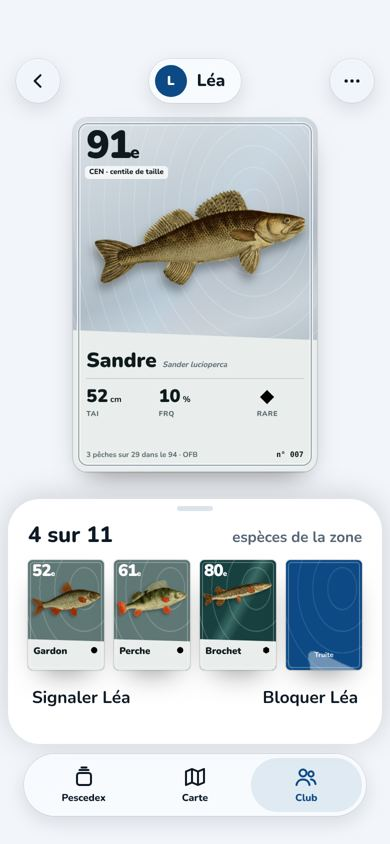
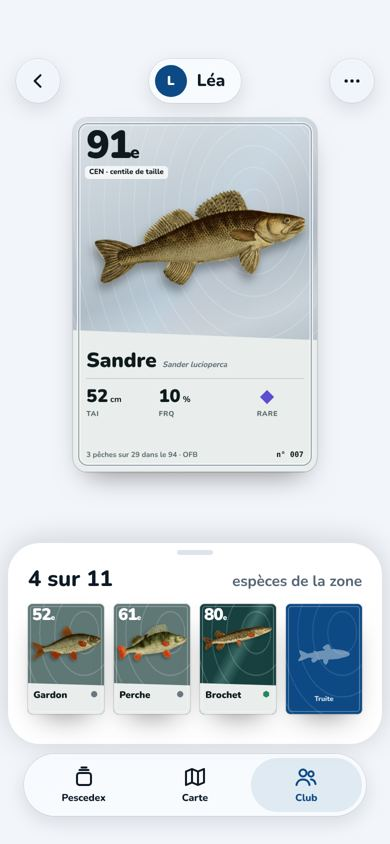
Design : mes clubs (P29 B), photo de galerie (P30 B), Signaler et Bloquer dans le menu (P32 A)
Claude-Session: https://claude.ai/code/session_01SHD9N8ay5HXbeEQZKxhWVP

Changed region(s): [[0.0, 0.6161, 0.9846, 0.8626], [0.6769, 0.4621, 0.7077, 0.4929]]

diff --git a/docs/design/maquettes/P29-club-B.dc.html b/docs/design/maquettes/P29-club-B.dc.html
@@ -18,15 +18,7 @@ body{margin:0}
 </style>
 </helmet>
 <div class="ecran"><div class="haut"><h1 class="t-grand">Club</h1></div>
-<div class="zone" style="margin-top:8px">
-<div class="groupe"><div class="ligne" style="min-height:64px"><div class="tuile-poisson" style="width:44px;height:44px;border-radius:22px"><img class="poisson" src="/_blob/325cfac7b539aef705c1b3f944fa8bcf" alt="Brochet" style="width:36px;height:22px"></div><div class="texte"><div class="t-sous">Les brochets de la Marne</div><div class="t-legende">4 membres</div></div><svg class="chevron" viewBox="0 0 8 14" aria-hidden="true"><path fill="none" stroke="currentColor" stroke-width="2" stroke-linecap="round" stroke-linejoin="round" d="m1.5 1.5 5 5.5-5 5.5"/></svg></div></div>
-<div class="groupe"><div class="ligne"><span class="g7-av" style="width:36px;height:36px;font-size:15px;background:#0D4A85;box-shadow:none">L</span><div class="texte t-corps">Léa</div><span class="valeur">4 cartes</span><svg class="chevron" viewBox="0 0 8 14" aria-hidden="true"><path fill="none" stroke="currentColor" stroke-width="2" stroke-linecap="round" stroke-linejoin="round" d="m1.5 1.5 5 5.5-5 5.5"/></svg></div><div class="ligne"><span class="g7-av" style="width:36px;height:36px;font-size:15px;background:#13643B;box-shadow:none">M</span><div class="texte t-corps">Malo</div><span class="valeur">8 cartes</span><svg class="chevron" viewBox="0 0 8 14" aria-hidden="true"><path fill="none" stroke="currentColor" stroke-width="2" stroke-linecap="round" stroke-linejoin="round" d="m1.5 1.5 5 5.5-5 5.5"/></svg></div><div class="ligne"><span class="g7-av" style="width:36px;height:36px;font-size:15px;background:#082A4C;box-shadow:none">I</span><div class="texte t-corps">Inès</div><span class="valeur">3 cartes</span><svg class="chevron" viewBox="0 0 8 14" aria-hidden="true"><path fill="none" stroke="currentColor" stroke-width="2" stroke-linecap="round" stroke-linejoin="round" d="m1.5 1.5 5 5.5-5 5.5"/></svg></div><div class="ligne" style="color:var(--marine)"><svg style="width:22px;height:22px;flex:none;color:var(--marine)" viewBox="0 0 24 24" aria-hidden="true"><path fill="none" stroke="currentColor" stroke-width="2.4" stroke-linecap="round" d="M12 5v14M5 12h14"/></svg><span class="t-corps">Inviter un ami</span></div></div>
-<div class="entete-groupe">Dernières cartes</div>
-<div class="groupe"><div class="ligne avec-image"><div class="vignette tuile-poisson" style="border-radius:8px;width:56px;height:36px"><img class="poisson" src="/_blob/64752134d1301c8ae5245b9230566c2d" alt=""></div><div class="texte"><div class="t-corps">Léa</div><div class="t-legende">Sandre, lundi</div></div><span class="valeur">52 cm</span><svg class="chevron" viewBox="0 0 8 14" aria-hidden="true"><path fill="none" stroke="currentColor" stroke-width="2" stroke-linecap="round" stroke-linejoin="round" d="m1.5 1.5 5 5.5-5 5.5"/></svg></div><div class="ligne avec-image"><div class="vignette tuile-poisson" style="border-radius:8px;width:56px;height:36px"><img class="poisson" src="/_blob/4799d66fb5fc82ab53e0051d38867b2d" alt=""></div><div class="texte"><div class="t-corps">Inès</div><div class="t-legende">Gardon, dim.</div></div><span class="valeur">27 cm</span><svg class="chevron" viewBox="0 0 8 14" aria-hidden="true"><path fill="none" stroke="currentColor" stroke-width="2" stroke-linecap="round" stroke-linejoin="round" d="m1.5 1.5 5 5.5-5 5.5"/></svg></div></div>
-<div class="entete-groupe">Record du club</div>
-<div class="groupe"><div class="ligne avec-image"><div class="vignette tuile-poisson" style="border-radius:8px;width:56px;height:36px"><img class="poisson" src="/_blob/325cfac7b539aef705c1b3f944fa8bcf" alt=""></div><div class="texte"><div class="t-corps">Plus gros brochet</div><div class="t-legende">Malo</div></div><span class="valeur">74 cm</span><svg class="chevron" viewBox="0 0 8 14" aria-hidden="true"><path fill="none" stroke="currentColor" stroke-width="2" stroke-linecap="round" stroke-linejoin="round" d="m1.5 1.5 5 5.5-5 5.5"/></svg></div></div>
-<div class="groupe" style="margin-top:22px"><div class="ligne"><span class="texte t-corps">Réglages du club</span><svg class="chevron" viewBox="0 0 8 14" aria-hidden="true"><path fill="none" stroke="currentColor" stroke-width="2" stroke-linecap="round" stroke-linejoin="round" d="m1.5 1.5 5 5.5-5 5.5"/></svg></div></div>
-</div><nav class="onglets verre" aria-label="Volets"><a class="onglet" href="#"><svg viewBox="0 0 24 24" fill="none" stroke="currentColor" stroke-width="2" stroke-linejoin="round" aria-hidden="true"><rect x="5" y="8" width="14" height="12" rx="2.5"/><path d="M7.5 5h9M9.5 2.5h5" stroke-linecap="round"/></svg><span>Pescedex</span></a><a class="onglet" href="#"><svg viewBox="0 0 24 24" fill="none" stroke="currentColor" stroke-width="2" stroke-linejoin="round" aria-hidden="true"><path d="M3 6.5 9 4l6 2.5L21 4v13.5L15 20l-6-2.5L3 20Z"/><path d="M9 4v13.5M15 6.5V20"/></svg><span>Carte</span></a><a class="onglet on" href="#"><svg viewBox="0 0 24 24" fill="none" stroke="currentColor" stroke-width="2" stroke-linecap="round" aria-hidden="true"><circle cx="9" cy="8" r="3.5"/><path d="M2.5 20c.6-3.6 3.3-5.5 6.5-5.5s5.9 1.9 6.5 5.5"/><circle cx="17" cy="9" r="2.6"/><path d="M17 14.4c2.4.2 4 1.8 4.5 4.6"/></svg><span>Club</span></a></nav></div>
+<div class="zone" style="margin-top:0"><div class="entete-groupe" style="padding-top:4px">Mes clubs</div><div class="groupe"><div class="ligne" style="min-height:52px"><div class="tuile-poisson" style="width:36px;height:36px;border-radius:18px"><img class="poisson" src="/_blob/325cfac7b539aef705c1b3f944fa8bcf" alt="Brochet" style="width:30px;height:18px"></div><div class="texte"><div class="t-corps">Les brochets de la Marne</div><div class="t-legende">4 membres</div></div><svg style="width:22px;height:22px;flex:none;color:var(--marine)" viewBox="0 0 24 24" aria-hidden="true"><path fill="currentColor" d="M12 2a10 10 0 1 0 0 20 10 10 0 0 0 0-20Zm-1.3 14.2-4-4 1.4-1.4 2.6 2.6 5.6-5.6 1.4 1.4Z"/></svg></div><div class="ligne" style="min-height:52px"><div class="tuile-poisson" style="width:36px;height:36px;border-radius:18px"><img class="poisson" src="/_blob/aeffa4c02dbb347bade7eabb3ce5d690" alt="Carpe" style="width:30px;height:18px"></div><div class="texte"><div class="t-corps">Carpistes du 94</div><div class="t-legende">7 membres</div></div><svg class="chevron" viewBox="0 0 8 14" aria-hidden="true"><path fill="none" stroke="currentColor" stroke-width="2" stroke-linecap="round" stroke-linejoin="round" d="m1.5 1.5 5 5.5-5 5.5"/></svg></div><div class="ligne" style="min-height:52px"><div class="tuile-poisson" style="width:36px;height:36px;border-radius:18px"><img class="poisson" src="/_blob/4799d66fb5fc82ab53e0051d38867b2d" alt="Gardon" style="width:30px;height:18px"></div><div class="texte"><div class="t-corps">Famille</div><div class="t-legende">3 membres</div></div><svg class="chevron" viewBox="0 0 8 14" aria-hidden="true"><path fill="none" stroke="currentColor" stroke-width="2" stroke-linecap="round" stroke-linejoin="round" d="m1.5 1.5 5 5.5-5 5.5"/></svg></div><div class="ligne" style="min-height:0;padding:0 10px"><button class="t-detail" style="flex:1.5;white-space:nowrap;display:flex;align-items:center;justify-content:center;gap:4px;height:48px;font-size:14px;color:var(--marine)"><svg style="width:20px;height:20px;flex:none" viewBox="0 0 24 24" aria-hidden="true"><path fill="none" stroke="currentColor" stroke-width="2.2" stroke-linecap="round" stroke-linejoin="round" d="M10 14a4 4 0 0 0 5.7 0l3-3a4 4 0 0 0-5.7-5.7l-1 1M14 10a4 4 0 0 0-5.7 0l-3 3A4 4 0 0 0 11 18.7l1-1"/></svg>Rejoindre avec un lien</button><span style="width:1px;height:24px;background:var(--filet)"></span><button class="t-detail" style="flex:1;display:flex;align-items:center;justify-content:center;gap:4px;height:48px;font-size:14px;color:var(--marine)"><svg style="width:20px;height:20px;flex:none" viewBox="0 0 24 24" aria-hidden="true"><path fill="none" stroke="currentColor" stroke-width="2.4" stroke-linecap="round" d="M12 5v14M5 12h14"/></svg>Créer un club</button></div></div><div class="entete-groupe">Les brochets de la Marne</div><div class="groupe"><div class="ligne" style="padding:0;min-height:0"><div style="flex:1;display:flex;flex-direction:column;align-items:center;gap:2px;padding:10px 0"><span class="g7-av" style="width:36px;height:36px;font-size:15px;background:#0D4A85;box-shadow:none">L</span><span class="t-detail">Léa</span><span class="t-legende" style="color:var(--encre-douce)">4 cartes</span></div><div style="flex:1;display:flex;flex-direction:column;align-items:center;gap:2px;padding:10px 0"><span class="g7-av" style="width:36px;height:36px;font-size:15px;background:#13643B;box-shadow:none">M</span><span class="t-detail">Malo</span><span class="t-legende" style="color:var(--encre-douce)">8 cartes</span></div><div style="flex:1;display:flex;flex-direction:column;align-items:center;gap:2px;padding:10px 0"><span class="g7-av" style="width:36px;height:36px;font-size:15px;background:#082A4C;box-shadow:none">I</span><span class="t-detail">Inès</span><span class="t-legende" style="color:var(--encre-douce)">3 cartes</span></div><button aria-label="Inviter un ami" style="flex:1;display:flex;flex-direction:column;align-items:center;gap:2px;padding:10px 0;color:var(--marine)"><span style="width:36px;height:36px;display:grid;place-items:center"><svg style="width:26px;height:26px" viewBox="0 0 24 24" aria-hidden="true"><path fill="none" stroke="currentColor" stroke-width="2.4" stroke-linecap="round" d="M12 5v14M5 12h14"/></svg></span><span class="t-detail">Inviter</span><span class="t-legende">&nbsp;</span></button></div></div><div class="entete-groupe">Dernières cartes</div><div class="groupe"><div class="ligne avec-image" style="min-height:48px"><div class="vignette tuile-poisson" style="border-radius:8px;width:48px;height:32px"><img class="poisson" src="/_blob/64752134d1301c8ae5245b9230566c2d" alt=""></div><div class="texte"><div class="t-corps">Léa</div><div class="t-legende">Sandre, lundi</div></div><span class="valeur">52 cm</span><svg class="chevron" viewBox="0 0 8 14" aria-hidden="true"><path fill="none" stroke="currentColor" stroke-width="2" stroke-linecap="round" stroke-linejoin="round" d="m1.5 1.5 5 5.5-5 5.5"/></svg></div><div class="ligne avec-image" style="min-height:48px"><div class="vignette tuile-poisson" style="border-radius:8px;width:48px;height:32px"><img class="poisson" src="/_blob/4799d66fb5fc82ab53e0051d38867b2d" alt=""></div><div class="texte"><div class="t-corps">Inès</div><div class="t-legende">Gardon, dim.</div></div><span class="valeur">27 cm</span><svg class="chevron" viewBox="0 0 8 14" aria-hidden="true"><path fill="none" stroke="currentColor" stroke-width="2" stroke-linecap="round" stroke-linejoin="round" d="m1.5 1.5 5 5.5-5 5.5"/></svg></div></div><div class="entete-groupe">Record du club</div><div class="groupe"><div class="ligne avec-image" style="min-height:48px"><div class="vignette tuile-poisson" style="border-radius:8px;width:48px;height:32px"><img class="poisson" src="/_blob/325cfac7b539aef705c1b3f944fa8bcf" alt=""></div><div class="texte"><div class="t-corps">Plus gros brochet</div><div class="t-legende">Malo</div></div><span class="valeur">74 cm</span><svg class="chevron" viewBox="0 0 8 14" aria-hidden="true"><path fill="none" stroke="currentColor" stroke-width="2" stroke-linecap="round" stroke-linejoin="round" d="m1.5 1.5 5 5.5-5 5.5"/></svg></div></div></div><nav class="onglets verre" aria-label="Volets"><a class="onglet" href="#"><svg viewBox="0 0 24 24" fill="none" stroke="currentColor" stroke-width="2" stroke-linejoin="round" aria-hidden="true"><rect x="5" y="8" width="14" height="12" rx="2.5"/><path d="M7.5 5h9M9.5 2.5h5" stroke-linecap="round"/></svg><span>Pescedex</span></a><a class="onglet" href="#"><svg viewBox="0 0 24 24" fill="none" stroke="currentColor" stroke-width="2" stroke-linejoin="round" aria-hidden="true"><path d="M3 6.5 9 4l6 2.5L21 4v13.5L15 20l-6-2.5L3 20Z"/><path d="M9 4v13.5M15 6.5V20"/></svg><span>Carte</span></a><a class="onglet on" href="#"><svg viewBox="0 0 24 24" fill="none" stroke="currentColor" stroke-width="2" stroke-linecap="round" aria-hidden="true"><circle cx="9" cy="8" r="3.5"/><path d="M2.5 20c.6-3.6 3.3-5.5 6.5-5.5s5.9 1.9 6.5 5.5"/><circle cx="17" cy="9" r="2.6"/><path d="M17 14.4c2.4.2 4 1.8 4.5 4.6"/></svg><span>Club</span></a></nav></div>
 </x-dc>
 <script type="text/x-dc" data-dc-script data-props='{"$preview":{"width":390,"height":844}}'>
 class Component extends DCLogic {

diff --git a/docs/design/maquettes/P32-ami-A.dc.html b/docs/design/maquettes/P32-ami-A.dc.html
@@ -25,7 +25,7 @@ body{margin:0}
 <div style="position:absolute;left:0;right:0;top:118px;display:flex;justify-content:center"><div class="fc r" style="width:244px;"><div class="win"></div><div class="fish"><img src="/_blob/64752134d1301c8ae5245b9230566c2d" alt="Sandre"></div><div class="cen">91<i>e</i></div><div class="cenl">CEN · centile de taille</div><div class="pl"><div class="nm"><b>Sandre</b><em>Sander lucioperca</em></div><svg class="rkm r" viewBox="0 0 16 16" aria-hidden="true"><path d="M8 1 15 8 8 15 1 8Z"/></svg><div class="st"><div><b>52<small> cm</small></b><span>TAI</span></div><div><b>10<small> %</small></b><span>FRQ</span></div><div class="rk r"><svg viewBox="0 0 16 16" aria-hidden="true"><path d="M8 1 15 8 8 15 1 8Z"/></svg><span>RARE</span></div></div><div class="fo"><span>3 pêches sur 29 dans le 94 · OFB</span><u>n° 007</u></div></div><i class="in"></i></div></div>
 <div class="feuille au-dessus"><div class="poignee"></div>
 <div style="display:flex;justify-content:space-between;align-items:baseline"><h2 class="t-titre">4 sur 11</h2><span class="t-detail">espèces de la zone</span></div>
-<div style="display:flex;justify-content:space-between;margin:12px 0 6px"><div class="fc c mini" style="width:76px;"><div class="win"></div><div class="fish"><img src="/_blob/4799d66fb5fc82ab53e0051d38867b2d" alt="Gardon"></div><div class="cen">52<i>e</i></div><div class="cenl">CEN · centile de taille</div><div class="pl"><div class="nm"><b>Gardon</b><em>Rutilus rutilus</em></div><svg class="rkm c" viewBox="0 0 16 16" aria-hidden="true"><circle cx="8" cy="8" r="6"/></svg><div class="st"><div><b>24<small> cm</small></b><span>TAI</span></div><div><b>83<small> %</small></b><span>FRQ</span></div><div class="rk c"><svg viewBox="0 0 16 16" aria-hidden="true"><circle cx="8" cy="8" r="6"/></svg><span>COMMUN</span></div></div><div class="fo"><span>24 pêches sur 29 dans le 94 · OFB</span><u>n° 003</u></div></div><i class="in"></i></div><div class="fc c mini" style="width:76px;"><div class="win"></div><div class="fish"><img src="/_blob/0af5e5e6f274e011d4317ff12600a103" alt="Perche"></div><div class="cen">61<i>e</i></div><div class="cenl">CEN · centile de taille</div><div class="pl"><div class="nm"><b>Perche</b><em>Perca fluviatilis</em></div><svg class="rkm c" viewBox="0 0 16 16" aria-hidden="true"><circle cx="8" cy="8" r="6"/></svg><div class="st"><div><b>31<small> cm</small></b><span>TAI</span></div><div><b>55<small> %</small></b><span>FRQ</span></div><div class="rk c"><svg viewBox="0 0 16 16" aria-hidden="true"><circle cx="8" cy="8" r="6"/></svg><span>COMMUN</span></div></div><div class="fo"><span>16 pêches sur 29 dans le 94 · OFB</span><u>n° 005</u></div></div><i class="in"></i></div><div class="fc pc mini" style="width:76px;"><div class="win"></div><div class="fish"><img src="/_blob/325cfac7b539aef705c1b3f944fa8bcf" alt="Brochet"></div><div class="cen">80<i>e</i></div><div class="cenl">CEN · centile de taille</div><div class="pl"><div class="nm"><b>Brochet</b><em>Esox lucius</em></div><svg class="rkm pc" viewBox="0 0 16 16" aria-hidden="true"><path d="M8 1.5 13.6 4.75v6.5L8 14.5 2.4 11.25v-6.5Z"/></svg><div class="st"><div><b>61<small> cm</small></b><span>TAI</span></div><div><b>34<small> %</small></b><span>FRQ</span></div><div class="rk pc"><svg viewBox="0 0 16 16" aria-hidden="true"><path d="M8 1.5 13.6 4.75v6.5L8 14.5 2.4 11.25v-6.5Z"/></svg><span>PEU COMMUN</span></div></div><div class="fo"><span>10 pêches sur 29 dans le 94 · OFB</span><u>n° 009</u></div></div><i class="in"></i></div><div class="fc dos" style="width:76px"><div class="win"></div><img class="sil" src="/_blob/b1e4b71a29726b13c2d34e2adfcfef68" alt=""><div class="nmdos">Truite</div><i class="in"></i></div></div><div style="display:flex;justify-content:space-between;padding:0 4px"><button class="t-legende" style="height:44px">Signaler Léa</button><button class="t-legende" style="height:44px">Bloquer Léa</button></div></div><nav class="onglets verre" aria-label="Volets"><a class="onglet" href="#"><svg viewBox="0 0 24 24" fill="none" stroke="currentColor" stroke-width="2" stroke-linejoin="round" aria-hidden="true"><rect x="5" y="8" width="14" height="12" rx="2.5"/><path d="M7.5 5h9M9.5 2.5h5" stroke-linecap="round"/></svg><span>Pescedex</span></a><a class="onglet" href="#"><svg viewBox="0 0 24 24" fill="none" stroke="currentColor" stroke-width="2" stroke-linejoin="round" aria-hidden="true"><path d="M3 6.5 9 4l6 2.5L21 4v13.5L15 20l-6-2.5L3 20Z"/><path d="M9 4v13.5M15 6.5V20"/></svg><span>Carte</span></a><a class="onglet on" href="#"><svg viewBox="0 0 24 24" fill="none" stroke="currentColor" stroke-width="2" stroke-linecap="round" aria-hidden="true"><circle cx="9" cy="8" r="3.5"/><path d="M2.5 20c.6-3.6 3.3-5.5 6.5-5.5s5.9 1.9 6.5 5.5"/><circle cx="17" cy="9" r="2.6"/><path d="M17 14.4c2.4.2 4 1.8 4.5 4.6"/></svg><span>Club</span></a></nav></div>
+<div style="display:flex;justify-content:space-between;margin:12px 0 6px"><div class="fc c mini" style="width:76px;"><div class="win"></div><div class="fish"><img src="/_blob/4799d66fb5fc82ab53e0051d38867b2d" alt="Gardon"></div><div class="cen">52<i>e</i></div><div class="cenl">CEN · centile de taille</div><div class="pl"><div class="nm"><b>Gardon</b><em>Rutilus rutilus</em></div><svg class="rkm c" viewBox="0 0 16 16" aria-hidden="true"><circle cx="8" cy="8" r="6"/></svg><div class="st"><div><b>24<small> cm</small></b><span>TAI</span></div><div><b>83<small> %</small></b><span>FRQ</span></div><div class="rk c"><svg viewBox="0 0 16 16" aria-hidden="true"><circle cx="8" cy="8" r="6"/></svg><span>COMMUN</span></div></div><div class="fo"><span>24 pêches sur 29 dans le 94 · OFB</span><u>n° 003</u></div></div><i class="in"></i></div><div class="fc c mini" style="width:76px;"><div class="win"></div><div class="fish"><img src="/_blob/0af5e5e6f274e011d4317ff12600a103" alt="Perche"></div><div class="cen">61<i>e</i></div><div class="cenl">CEN · centile de taille</div><div class="pl"><div class="nm"><b>Perche</b><em>Perca fluviatilis</em></div><svg class="rkm c" viewBox="0 0 16 16" aria-hidden="true"><circle cx="8" cy="8" r="6"/></svg><div class="st"><div><b>31<small> cm</small></b><span>TAI</span></div><div><b>55<small> %</small></b><span>FRQ</span></div><div class="rk c"><svg viewBox="0 0 16 16" aria-hidden="true"><circle cx="8" cy="8" r="6"/></svg><span>COMMUN</span></div></div><div class="fo"><span>16 pêches sur 29 dans le 94 · OFB</span><u>n° 005</u></div></div><i class="in"></i></div><div class="fc pc mini" style="width:76px;"><div class="win"></div><div class="fish"><img src="/_blob/325cfac7b539aef705c1b3f944fa8bcf" alt="Brochet"></div><div class="cen">80<i>e</i></div><div class="cenl">CEN · centile de taille</div><div class="pl"><div class="nm"><b>Brochet</b><em>Esox lucius</em></div><svg class="rkm pc" viewBox="0 0 16 16" aria-hidden="true"><path d="M8 1.5 13.6 4.75v6.5L8 14.5 2.4 11.25v-6.5Z"/></svg><div class="st"><div><b>61<small> cm</small></b><span>TAI</span></div><div><b>34<small> %</small></b><span>FRQ</span></div><div class="rk pc"><svg viewBox="0 0 16 16" aria-hidden="true"><path d="M8 1.5 13.6 4.75v6.5L8 14.5 2.4 11.25v-6.5Z"/></svg><span>PEU COMMUN</span></div></div><div class="fo"><span>10 pêches sur 29 dans le 94 · OFB</span><u>n° 009</u></div></div><i class="in"></i></div><div class="fc dos" style="width:76px"><div class="win"></div><img class="sil" src="/_blob/b1e4b71a29726b13c2d34e2adfcfef68" alt=""><div class="nmdos">Truite</div><i class="in"></i></div></div></div><nav class="onglets verre" aria-label="Volets"><a class="onglet" href="#"><svg viewBox="0 0 24 24" fill="none" stroke="currentColor" stroke-width="2" stroke-linejoin="round" aria-hidden="true"><rect x="5" y="8" width="14" height="12" rx="2.5"/><path d="M7.5 5h9M9.5 2.5h5" stroke-linecap="round"/></svg><span>Pescedex</span></a><a class="onglet" href="#"><svg viewBox="0 0 24 24" fill="none" stroke="currentColor" stroke-width="2" stroke-linejoin="round" aria-hidden="true"><path d="M3 6.5 9 4l6 2.5L21 4v13.5L15 20l-6-2.5L3 20Z"/><path d="M9 4v13.5M15 6.5V20"/></svg><span>Carte</span></a><a class="onglet on" href="#"><svg viewBox="0 0 24 24" fill="none" stroke="currentColor" stroke-width="2" stroke-linecap="round" aria-hidden="true"><circle cx="9" cy="8" r="3.5"/><path d="M2.5 20c.6-3.6 3.3-5.5 6.5-5.5s5.9 1.9 6.5 5.5"/><circle cx="17" cy="9" r="2.6"/><path d="M17 14.4c2.4.2 4 1.8 4.5 4.6"/></svg><span>Club</span></a></nav></div>
 </x-dc>
 <script type="text/x-dc" data-dc-script data-props='{"$preview":{"width":390,"height":844}}'>
 class Component extends DCLogic {

diff --git a/docs/design/maquettes/P30-creer-B.dc.html b/docs/design/maquettes/P30-creer-B.dc.html
@@ -23,7 +23,7 @@ body{margin:0}
 <div class="entete-groupe" style="padding-top:12px">Nom</div>
 <div class="groupe"><div class="ligne"><span class="texte t-corps">Les brochets de la Marne</span></div></div>
 <div class="entete-groupe">Image</div>
-<div class="groupe" style="padding:12px"><div style="display:grid;grid-template-columns:repeat(3,1fr);gap:8px;justify-items:center"><div style="display:grid;place-items:center"><div class="tuile-poisson" style="width:96px;height:60px;box-shadow:inset 0 0 0 2.5px var(--marine);"><img class="poisson" src="/_blob/325cfac7b539aef705c1b3f944fa8bcf" alt="Brochet" style="width:82%;height:40px"></div></div><div style="display:grid;place-items:center"><div class="tuile-poisson" style="width:96px;height:60px;"><img class="poisson" src="/_blob/0af5e5e6f274e011d4317ff12600a103" alt="Perche" style="width:82%;height:40px"></div></div><div style="display:grid;place-items:center"><div class="tuile-poisson" style="width:96px;height:60px;"><img class="poisson" src="/_blob/64752134d1301c8ae5245b9230566c2d" alt="Sandre" style="width:82%;height:40px"></div></div><div style="display:grid;place-items:center"><div class="tuile-poisson" style="width:96px;height:60px;"><img class="poisson" src="/_blob/aeffa4c02dbb347bade7eabb3ce5d690" alt="Carpe" style="width:82%;height:40px"></div></div><div style="display:grid;place-items:center"><div class="tuile-poisson" style="width:96px;height:60px;"><img class="poisson" src="/_blob/9c9a3e6836050e27289055b62c3d60d5" alt="Truite" style="width:82%;height:40px"></div></div><div style="display:grid;place-items:center"><div class="tuile-poisson" style="width:96px;height:60px;"><img class="poisson" src="/_blob/4799d66fb5fc82ab53e0051d38867b2d" alt="Gardon" style="width:82%;height:40px"></div></div></div></div>
+<div class="groupe" style="padding:12px"><div style="display:grid;grid-template-columns:repeat(3,1fr);gap:8px;justify-items:center"><div style="display:grid;place-items:center"><div style="position:relative;width:96px;height:96px;border-radius:16px;overflow:hidden;box-shadow:0 0 0 2.5px var(--marine)"><img src="/_blob/084d443133499a1c8e783fc6ededce32" alt="Photo choisie dans la galerie" style="width:96px;height:96px;object-fit:cover;display:block"><span style="position:absolute;left:0;right:0;bottom:0;height:24px;background:var(--marine);color:#fff;display:flex;align-items:center;justify-content:center;gap:4px" class="t-legende"><svg style="width:14px;height:14px" viewBox="0 0 24 24" aria-hidden="true"><g fill="none" stroke="currentColor" stroke-width="2.4" stroke-linejoin="round"><rect x="3" y="4" width="18" height="16" rx="3"/><circle cx="9" cy="10" r="1.8"/><path d="m4 18 5-5 4 4 3-3 4 4" stroke-linecap="round"/></g></svg>Galerie</span><svg style="position:absolute;top:4px;right:4px;width:24px;height:24px;color:var(--marine);background:#fff;border-radius:50%" viewBox="0 0 24 24" aria-hidden="true"><path fill="currentColor" d="M12 2a10 10 0 1 0 0 20 10 10 0 0 0 0-20Zm-1.3 14.2-4-4 1.4-1.4 2.6 2.6 5.6-5.6 1.4 1.4Z"/></svg></div></div><div style="display:grid;place-items:center"><div class="tuile-poisson" style="width:96px;height:96px;"><img class="poisson" src="/_blob/0af5e5e6f274e011d4317ff12600a103" alt="Perche" style="width:82%;height:40px"></div></div><div style="display:grid;place-items:center"><div class="tuile-poisson" style="width:96px;height:96px;"><img class="poisson" src="/_blob/325cfac7b539aef705c1b3f944fa8bcf" alt="Brochet" style="width:82%;height:40px"></div></div><div style="display:grid;place-items:center"><div class="tuile-poisson" style="width:96px;height:96px;"><img class="poisson" src="/_blob/64752134d1301c8ae5245b9230566c2d" alt="Sandre" style="width:82%;height:40px"></div></div><div style="display:grid;place-items:center"><div class="tuile-poisson" style="width:96px;height:96px;"><img class="poisson" src="/_blob/aeffa4c02dbb347bade7eabb3ce5d690" alt="Carpe" style="width:82%;height:40px"></div></div><div style="display:grid;place-items:center"><div class="tuile-poisson" style="width:96px;height:96px;"><img class="poisson" src="/_blob/9c9a3e6836050e27289055b62c3d60d5" alt="Truite" style="width:82%;height:40px"></div></div></div></div>
 <div class="entete-groupe">Qui voit les collections</div>
 <div class="groupe"><div class="ligne"><svg style="width:20px;height:20px;flex:none;color:var(--marine)" viewBox="0 0 24 24" aria-hidden="true"><path fill="currentColor" d="M17 10V8A5 5 0 0 0 7 8v2a2 2 0 0 0-2 2v8a2 2 0 0 0 2 2h10a2 2 0 0 0 2-2v-8a2 2 0 0 0-2-2Zm-8-2a3 3 0 0 1 6 0v2H9Z"/></svg><span class="texte t-corps">Amis invités seulement</span><svg style="width:22px;height:22px;flex:none;color:var(--marine)" viewBox="0 0 24 24" aria-hidden="true"><path fill="currentColor" d="M12 2a10 10 0 1 0 0 20 10 10 0 0 0 0-20Zm-1.3 14.2-4-4 1.4-1.4 2.6 2.6 5.6-5.6 1.4 1.4Z"/></svg></div></div>
 <div class="t-legende" style="padding:8px 16px 0">Jamais en public. Seuls les amis que tu invites voient tes cartes.</div>

diff --git a/docs/design/cartographie.md b/docs/design/cartographie.md
@@ -44,8 +44,8 @@ Navigation : barre d'onglets iOS à 3 volets, Pescedex · Carte · Club, ouvertu
 - **P28 Carte déclarée et carte à essayer** [Conseils/CarteAEssayerView] : une carte « déclarée » (sans photo, marquée comme telle, distincte d'une vraie prise) et la suggestion « À essayer près de toi » (perche, avec le conseil du jour).
 
 ## G7 · Club (amis seulement, jamais en public)
-- **P29 Mon club** [Club/ClubView] : page d'accueil du volet Club : ton club (nom, membres Léa, Malo, Inès en pastilles), les dernières cartes des amis, records du club (plus gros brochet), bouton inviter ; plus bas : réglages, sources, sécurité.
-- **P30 Créer son club** [Amis/GestionAmis] : donner un nom au club (« Les brochets de la Marne »), choisir une image (un poisson), qui peut voir les collections (amis invités seulement, rappel clair), bouton « Créer ».
+- **P29 Mon club** [Club/ClubView] : page d'accueil du volet Club : ton club (nom, membres Léa, Malo, Inès en pastilles), les dernières cartes des amis, records du club (plus gros brochet), bouton inviter ; plus bas : réglages, sources, sécurité. Variante B : rangée « Mes clubs » (club actuel et autres clubs dont on est membre, « Rejoindre avec un lien », « Créer un club ») ; pas d'annuaire public, collections visibles par les amis invités seulement.
+- **P30 Créer son club** [Amis/GestionAmis] : donner un nom au club (« Les brochets de la Marne »), choisir une image (un poisson), qui peut voir les collections (amis invités seulement, rappel clair), bouton « Créer ». Variante B : l'image peut venir de la galerie de l'iPhone (tuile « Galerie » en première case, photo recadrée en carré), en plus des 5 illustrations de poisson.
 - **P31 Inviter des amis** [Amis/RelaisInvitations, CKShare] : partager un lien d'invitation (Messages, AirDrop, copier), liste des invitations en attente et acceptées, rappel « Ton coin exact ne quitte jamais ton iPhone ».
 - **P32 Pescedex d'un ami** [Amis/PescedexAmiView] : le classeur de Léa, son compteur, ses cartes ; Signaler et Bloquer accessibles (règle Apple 1.2).
 - **P33 Partager une carte** [Club/PartageCarteView, Amis/CartePartagee] : aperçu de l'image partagée (recto de la carte, sans lieu exact, sans GPS), choix « Au club » ou feuille de partage iOS ; mention « Sans ta position ».
